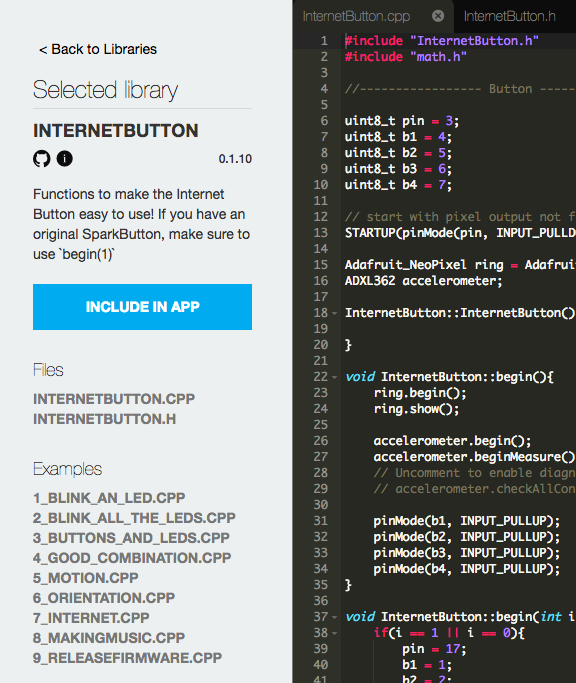
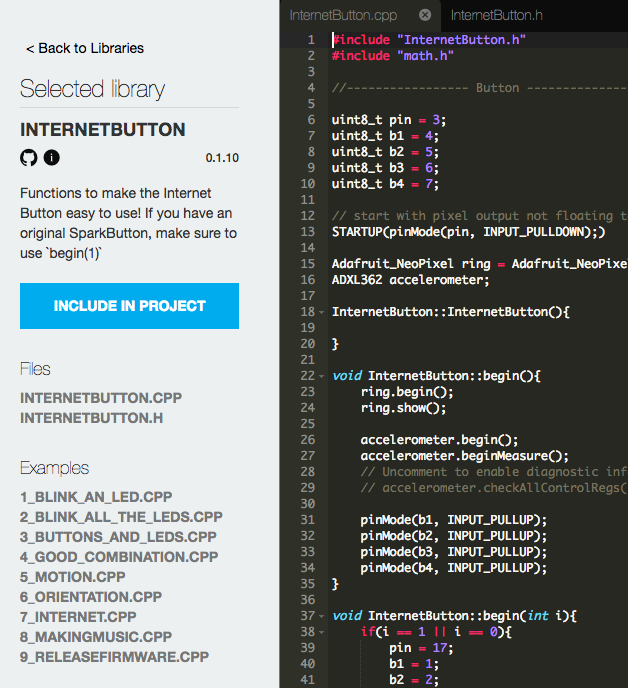
Fix documentation about libraries

Changed region(s): [[0.0312, 0.0, 1.0, 1.0], [0.0312, 0.6764, 0.4062, 0.9839], [0.0312, 0.5227, 0.3438, 0.6457]]

diff --git a/src/content/guide/getting-started/build.md b/src/content/guide/getting-started/build.md
@@ -172,7 +172,7 @@ Firmware libraries are an important part of how you connect your Photon or Elect
 
 Particle libraries are hosted on GitHub, and can be easily accessed through through all of Particle's development tools including the Web IDE.
 
-To include a firmware library in your Particle project, open the library drawer, search for the corresponding library for your sensor or actuator, and click the `Include in App` button. Including a library in your project will add the library dependency to the `project.properties` file that will be compiled with your project when it is verified or flashed to your target device.
+To include a firmware library in your Particle project, open the library drawer, search for the corresponding library for your sensor or actuator, and click the `Include in Project` button. Including a library in your project will add the library dependency to the `project.properties` file that will be compiled with your project when it is verified or flashed to your target device.
 
 Read on for detailed instructions to include a firmware library in your Particle application with Build.
 
@@ -217,13 +217,13 @@ The detailed view for a library includes the following:
 
 - `Library source`: In the editor you will see all the code of the library.
 
-##### Step 4 - Click on 'Include in App'
+##### Step 4 - Click on 'Include in Project'
 
-![Include in App](/assets/images/libraries-guide-includeinapp.png)
+![Include in Project](/assets/images/libraries-guide-includeinproject.png)
 
-To add a firmware library to a project, click the `Include in App` button. You will be presented with a list of your Particle projects that the library can be added to. After you select your target project from the list, you'll be presented with a confirmation page.
+To add a firmware library to a project, click the `Include in Project` button. You will be presented with a list of your Particle projects that the library can be added to. After you select your target project from the list, you'll be presented with a confirmation page.
 
-![Include in App](/assets/images/libraries-guide-includeinappconfirmation.png)
+![Include in Project](/assets/images/libraries-guide-includeinappconfirmation.png)
 
 Clicking the `Confirm` button will bring you back to your Particle project. The library include should appear at the top of your project source file. It should also be listed in the `Included libraries` section of the project.
 

diff --git a/src/content/guide/tools-and-features/libraries.md b/src/content/guide/tools-and-features/libraries.md
@@ -105,7 +105,7 @@ Every Particle library complies with the following file structure that will be a
 
 Libraries consumption is supported in each of our three primary development tools. Instructions for using libraries can be found in the documentation for each of those tools, linked below:
 
-- [Using libraries with the Web IDE](/guide/getting-started/build/)
+- [Using libraries with the Web IDE](/guide/getting-started/build/#using-libraries)
 - [Using libraries with the Desktop IDE](/guide/tools-and-features/dev/#using-community-libraries)
 - [Using libraries with the Command Line Interface (CLI)](/reference/cli/#particle-library)
 
